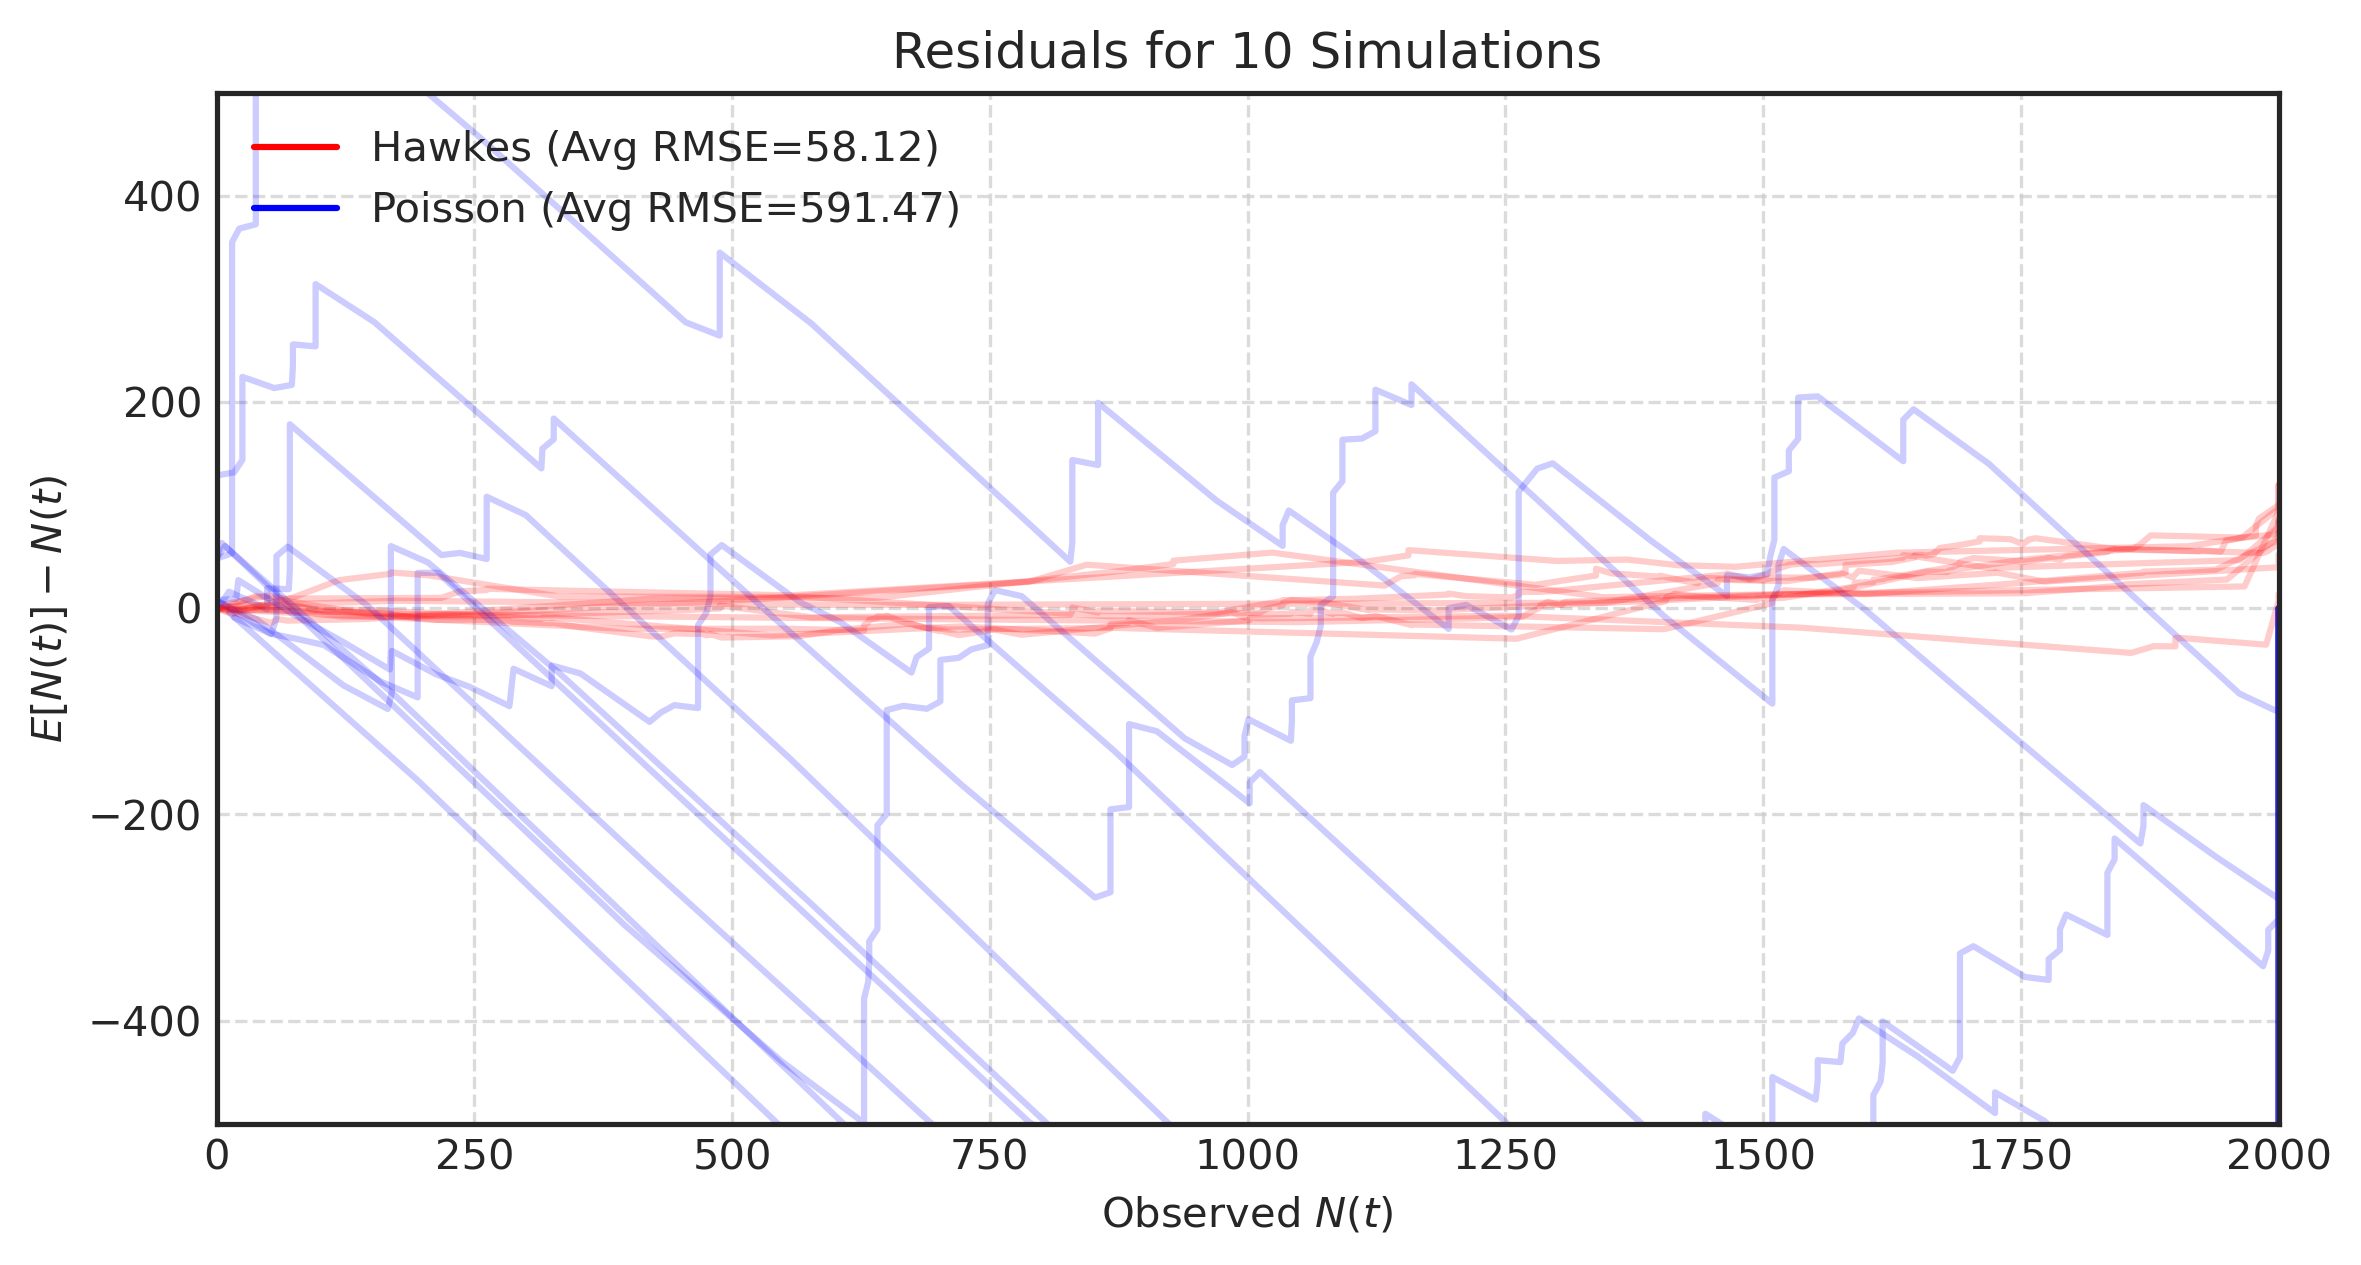
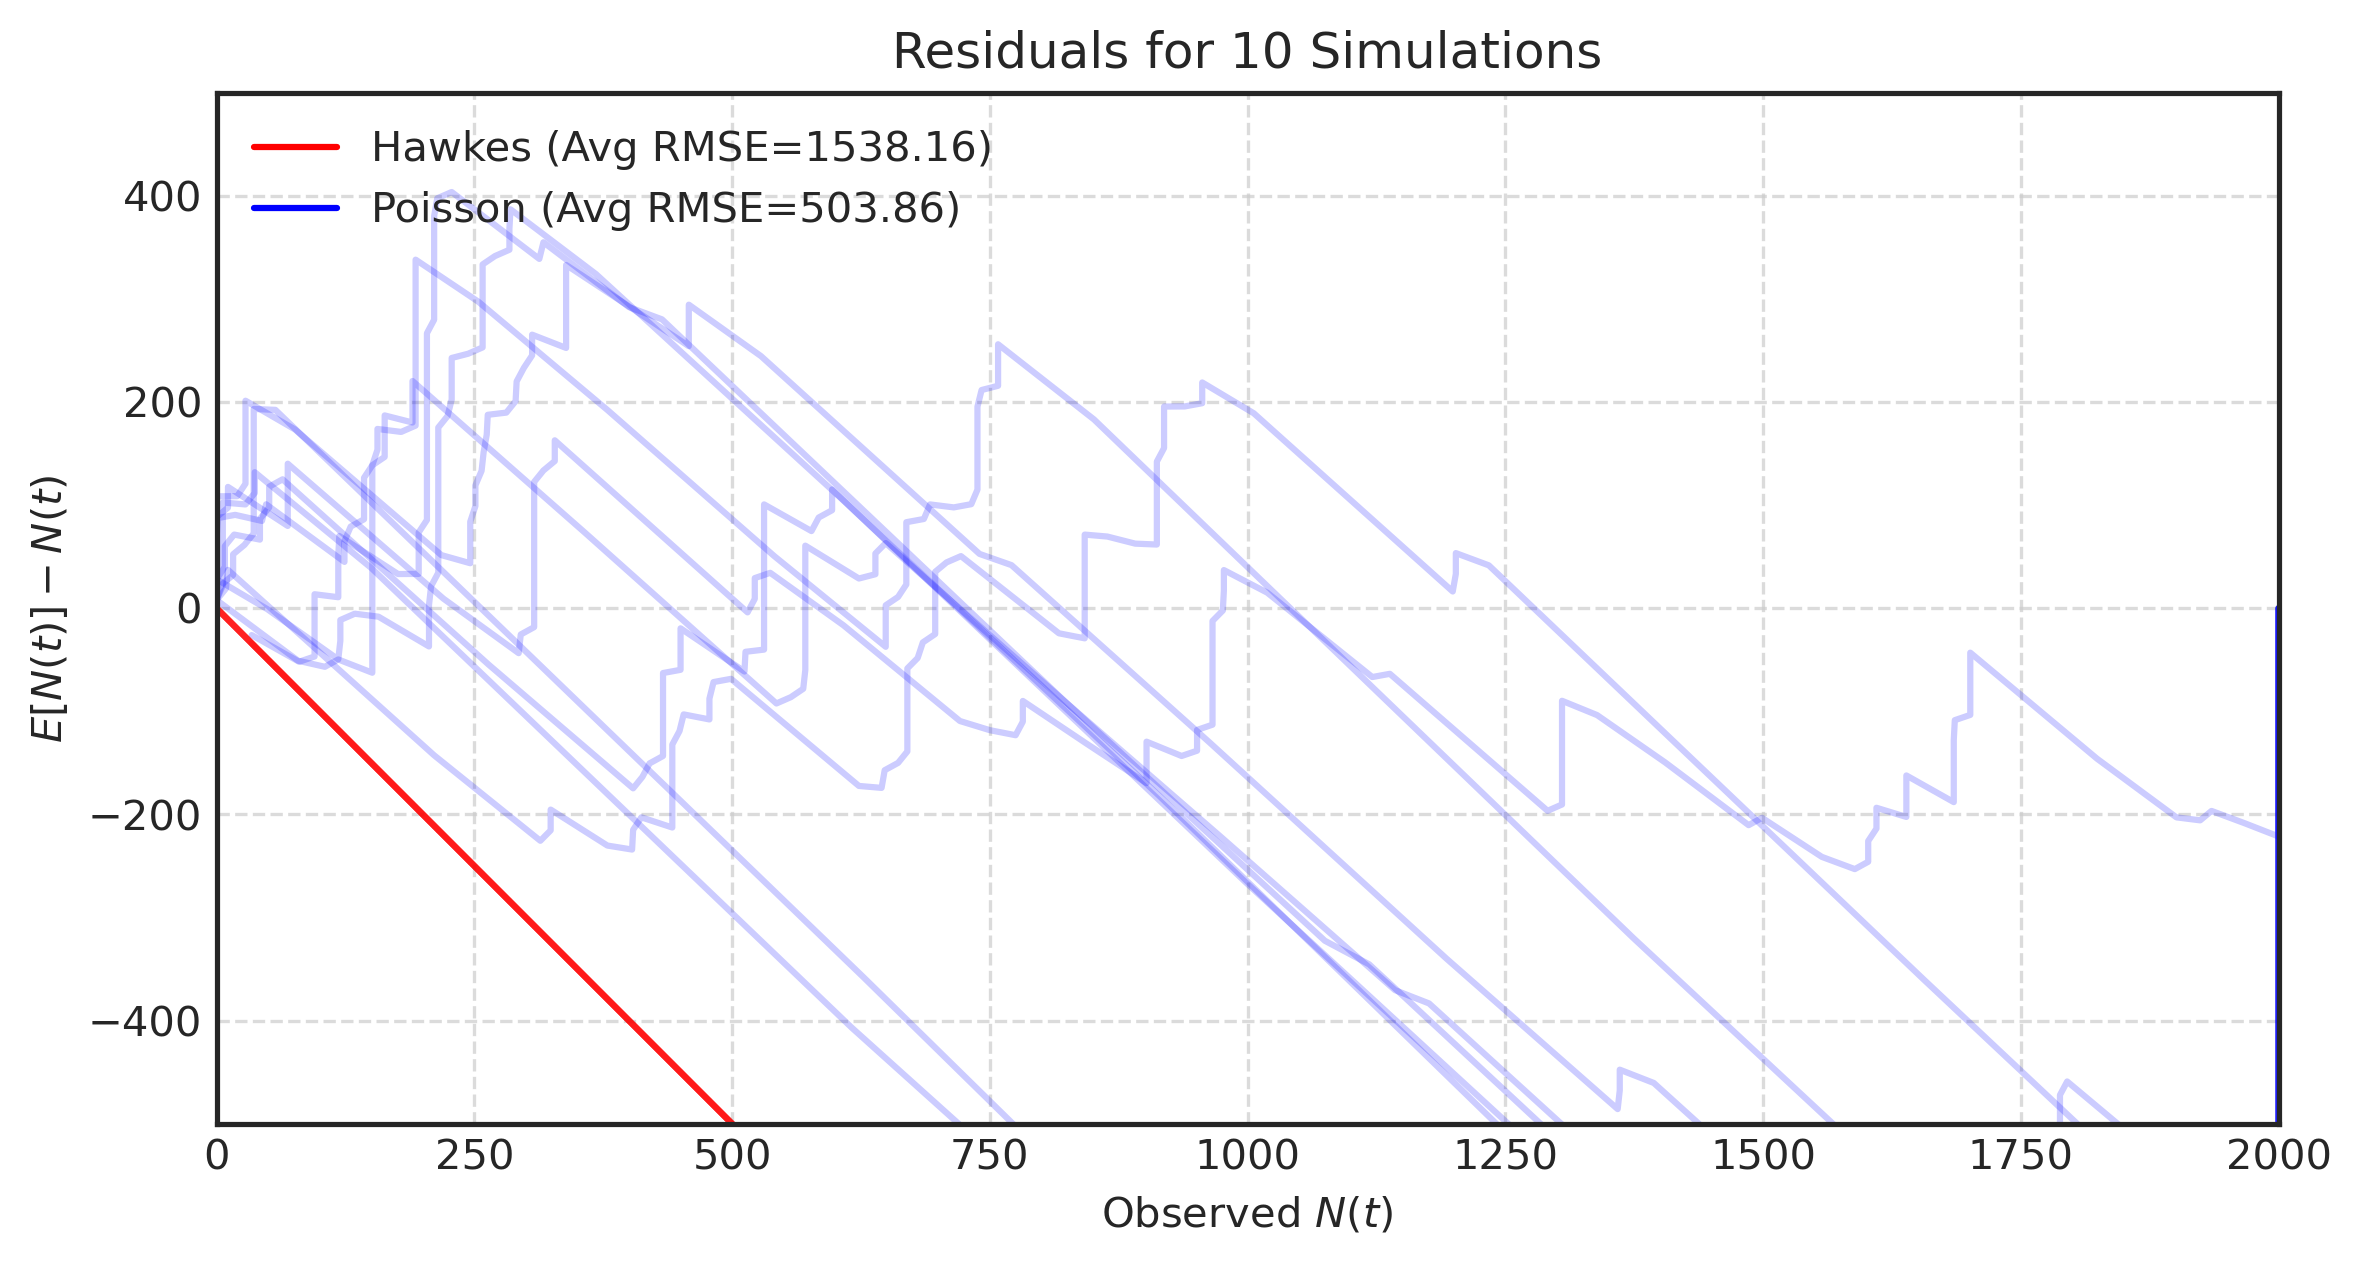
grad implementation not working

diff --git a/src/hawkes/models/hawkes_full_rank.py b/src/hawkes/models/hawkes_full_rank.py
@@ -7,19 +7,24 @@ from . import HawkesBase, HawkesNLL
 from ..utils import config, _torch_scan
 
 
-# TODO: Accomodate parametrized gamma in gradient
 class HawkesFullRankNLL(HawkesNLL):
     @staticmethod
     def backward(ctx: typing.Any, grad_output: torch.Tensor):
-        # TODO: can use existing intensity exp_decay
+        # TODO: can use existing intensity exp_decay, maybe that would save some time or mem
+        # TODO: replace this with argument to forward pass and accomodate parametrized gamma in gradient
+        GAMMA_PARAM = False
 
-        intensity, M, K, T, ti, mi = ctx.saved_tensors
-        M, K, T = M.item(), K.item(), T.item()
+        intensity, gamma, ti, mi = ctx.saved_tensors
+        M, K, T = ctx.M, ctx.K, ctx.T
 
         dti = ti - torch.cat([ti[:, 0:1, :], ti[:, 0:-1, :]], dim=1)  # Shape: [1, N, 1]
-        exp_decay = torch.exp(-gamma * dti)  # Shape: [K, N, 1]
+        exp_decay = torch.exp(-gamma * dti).permute(2, 1, 0)  # Shape: [K, N, 1]
         one_hot_vectors = torch.cat(
-            [torch.zeros(M).unsqueeze(0), F.one_hot(mi[:-1], num_classes=M)], dim=0
+            [
+                torch.zeros(M, device=ti.device).unsqueeze(0),
+                F.one_hot(mi[:-1], num_classes=M),
+            ],
+            dim=0,
         )  # Shape: [N, M]
 
         # Compute K sequence (of shape [N, M, K]) where K[:, q, k] corresponds to alpha[p, q, k]
@@ -28,40 +33,59 @@ class HawkesFullRankNLL(HawkesNLL):
             [exp_decay, exp_decay * one_hot_vectors.unsqueeze(0)], dim=2
         )  # Shape: [K, N, M+1]
 
-        # Compute prefix matrices P
-        P = _torch_scan.prefix_scan(
+        # Perform prefix scan on transition matrices
+        prefix_matrices = _torch_scan.prefix_scan(
             transition_matrices, prefix_func=_torch_scan.state_mult, dim=1
         )  # Shape: [K, N, M+1]
 
-        # TODO: optimize this using sorting and binning
-        # split_intensity = []  # Length: M
-        # for p in range(1, M + 1):
-        #     split_intensity.append(intensity[mi == p])
         # Obtain sorting indices of event nodes and the length of each node type in the sorted tensor
-        mi_sorted, idx = torch.sort(mi)
-        mi_counts = torch.bincount(mi_sorted, minlength=M + 1)[1:].tolist()  # Ignore 0
+        mi_sorted, idx = torch.sort(mi, stable=True)
+        mi_counts = torch.bincount(mi_sorted, minlength=M).tolist()  # Ignore 0
 
-        # Sort intensity and exp_decay according to their node type, and split based on which node they correspond to
+        # Sort ti, intensity, and states according to their node type (preserving temporal order as well)
+        # Split based on which node they correspond to, with each split subsequence being sorted already
+        # The first tuple index is the node type; i.e., mi_split[p] contains events of node type p + 1
+        # The docs say that split returns a view of the original tensor, so this should be efficient
+        ti_split = torch.split(ti[:, idx, :], mi_counts, dim=1)  # Shape: [M, 1, Np, 1]
         intensity_split = torch.split(
-            intensity[idx].squeeze(-1), mi_counts
-        )  # Shape: [M, Np]
-        # exp_decay_split = torch.split(
-        #     exp_decay[:, idx].squeeze(-1), counts.tolist(), dim=1
-        # )  # Shape: [M, K, Np]
+            intensity[idx, None, None], mi_counts, dim=0
+        )  # Shape: [M, Np, 1, 1]
+        states = prefix_matrices[:, :, 1:].permute(1, 2, 0)  # Shape: [N, M, K]
+        states_split = torch.split(states, mi_counts, dim=0)  # Shape: [M, Np, M, K]
 
-        P_split = torch.split(P[:, idx, :], mi_counts, dim=1)  # Shape: [M, K, Np, M+1]
+        # print(len(states_split), states_split[0].shape)
+        # print(len(intensity_split), intensity_split[0].shape)
+        # print(gamma.shape)
 
         # Compute mu gradient; only depends on each node type's intensity
         mu_grad = (
             torch.tensor(
-                [intensity_p.reciprocal().sum() for intensity_p in intensity_split]
+                [λp.reciprocal().sum() for λp in intensity_split], device=ti.device
             )
             - T
-        )  # Shape: [Np]
+        )  # Shape: [M]
 
-        # Compute alpha gradient components using prefix scanned intensity
+        # Compute alpha gradient components using intensity and prefix matrices
+        intensity_state_sum = torch.stack(
+            [
+                (gamma * Kp / λp).sum(dim=0)
+                for (Kp, λp) in zip(states_split, intensity_split)
+            ],
+            dim=0,
+        )  # Shape: [M, M, K]
+        exp_decay_sum = torch.stack(
+            [-torch.expm1(-gamma * (T - tiq)).sum(dim=1) for tiq in ti_split],
+            dim=1,
+        )  # Shape: [1, M, K]
+        alpha_grad = (intensity_state_sum - exp_decay_sum).permute(2, 0, 1)
+        gamma_grad = None  # * grad_output
 
-        return (None, alpha_grad, mu_grad, None) + (None,) * 6
+        return (
+            None,
+            alpha_grad * grad_output,
+            mu_grad * grad_output,
+            gamma_grad,
+        ) + (None,) * 6
 
 
 class HawkesFullRank(HawkesBase):
@@ -92,7 +116,13 @@ class HawkesFullRank(HawkesBase):
         K = len(gamma)
         self.device = gamma.device
 
-        super().__init__(M, K, device=self.device, debug_config=debug_config)
+        super().__init__(
+            M,
+            K,
+            nll_function=HawkesFullRankNLL,
+            device=self.device,
+            debug_config=debug_config,
+        )
 
         self.trans = transformation
 

diff --git a/src/hawkes/models/hawkes_base.py b/src/hawkes/models/hawkes_base.py
@@ -1,4 +1,5 @@
 import math
+import time
 import torch
 import typing
 import logging
@@ -7,13 +8,15 @@ from abc import ABC, abstractmethod
 from ..utils import config, _torch_scan
 
 
-class HawkesNLL(torch.autograd.Function, ABC):
+class HawkesNLL(torch.autograd.Function):
     @staticmethod
     def forward(
         ctx: typing.Any,
         mu: torch.Tensor,
         alpha: torch.Tensor,
         gamma: torch.Tensor,
+        intensity_fun: typing.Callable,
+        integrated_intensity_fun: typing.Callable,
         M: int,
         K: int,
         T: float,
@@ -49,15 +52,15 @@ class HawkesNLL(torch.autograd.Function, ABC):
         prev_state = None
 
         # TODO: Make batching work properly
-        intensity = torch.empty(N)
+        intensity = torch.empty(N, device=ti.device)
         for batch_start in range(0, N, batch_size):
             Nb = min(batch_size, N - batch_start)
 
-            nll_int += self.integrated_intensity(
+            nll_int += integrated_intensity_fun(
                 T, ti, mi, batching=True, batch_start=batch_start, batch_size=Nb
             )
 
-            batch_intensity, prev_state = self.intensity_at_events(
+            batch_intensity, prev_state = intensity_fun(
                 ti,
                 mi,
                 full_intensity=False,
@@ -69,16 +72,15 @@ class HawkesNLL(torch.autograd.Function, ABC):
             nll_neg_logsum -= torch.sum(torch.log(batch_intensity))
             intensity[batch_start : (batch_start + Nb)] = batch_intensity.squeeze()
 
-        ctx.save_for_backward(
-            intensity, torch.tensor(M), torch.tensor(K), torch.tensor(T), ti, mi
-        )
+        ctx.M, ctx.K, ctx.T = M, K, T
+        ctx.save_for_backward(intensity, gamma, ti, mi)
 
         return (nll_neg_logsum + nll_int) / N
 
     @staticmethod
-    @abstractmethod
     def backward(ctx, grad_output):
-        pass
+        """Workaround since this cannot be both an abstract base class and an autograd function"""
+        raise NotImplementedError("Subclasses must implement this method")
 
 
 class HawkesBase(torch.nn.Module, ABC):
@@ -87,7 +89,12 @@ class HawkesBase(torch.nn.Module, ABC):
     """
 
     def __init__(
-        self, M: int, K: int, device="cpu", debug_config=config.HawkesDebugConfig()
+        self,
+        M: int,
+        K: int,
+        nll_function: HawkesNLL,
+        device="cpu",
+        debug_config=config.HawkesDebugConfig(),
     ):
         """
         Args:
@@ -100,10 +107,10 @@ class HawkesBase(torch.nn.Module, ABC):
         super().__init__()
         self.M = M
         self.K = K
+        self._nll_function = nll_function
+
         self.device = device
-
         self.debug_config = debug_config
-
         self.logger = logging.getLogger(__name__)
 
         if debug_config.deterministic_sim:
@@ -258,9 +265,11 @@ class HawkesBase(torch.nn.Module, ABC):
             optimizer.zero_grad()
 
             # Calculate NLL across entire data and perform the backward pass
-            nll = self._compute_nll(
-                T, ti, mi, batch_size=fit_config.batch_size, compute_backward=True
-            )
+            nll = self.nll(T, ti, mi)
+            # nll_old = self._compute_nll(
+            #     T, ti, mi, batch_size=fit_config.batch_size, compute_backward=True
+            # )
+            # assert torch.all(torch.isclose(nll, nll_old))
 
             if fit_config.l1_penalty > 0:
                 l1_mu = torch.where(self.mu < fit_config.l1_hinge, self.mu, 0).sum()
@@ -279,8 +288,8 @@ class HawkesBase(torch.nn.Module, ABC):
             else:
                 nuclear_norm = 0
 
-            (l1 + nuclear_norm).backward()
             loss = nll + l1 + nuclear_norm
+            loss.backward()
 
             # Check for NaN gradients
             for n, p in self.named_parameters():
@@ -337,11 +346,33 @@ class HawkesBase(torch.nn.Module, ABC):
             f"Training summary: Final loss={losses[-1]:.4f}, "
             f"Loss reduction={loss_reduction:.1f}%, "
             f"Final sparsity={final_sparsity:.3f}"
-            f"Fitting took {fit_time_real}s, "
-            f"Peak memory usage was {peak_mem_gpu // 1e6}MiB"
+        )
+        self.logger.info(
+            f"Performance summary: Fitting took {time.strftime('%H:%M:%S', time.gmtime(fit_time_real))}, "
+            f"Peak GPU memory usage was {round(peak_mem_gpu / 2**20)}MiB"
         )
 
         return losses
+
+    def nll(
+        self,
+        T: float,
+        ti: torch.Tensor,
+        mi: torch.Tensor,
+    ):
+        # TODO: batching
+        return self._nll_function.apply(
+            self.mu,
+            self.alpha,
+            self.gamma,
+            self.intensity_at_events,
+            self.integrated_intensity,
+            self.M,
+            self.K,
+            T,
+            ti,
+            mi,
+        )
 
     def _compute_nll(
         self,

diff --git a/examples/fit_model.py b/examples/fit_model.py
@@ -92,7 +92,7 @@ match args.model_type:
             M=args.M,
             gamma=torch.tensor(est_gamma).to(args.device),
             init_scale=est_init_scale,
-            gamma_param=True,
+            gamma_param=False,  # TODO: Disable this
         ).to(args.device)
     case "low-rank":
         model_est = models.HawkesLowRank(
